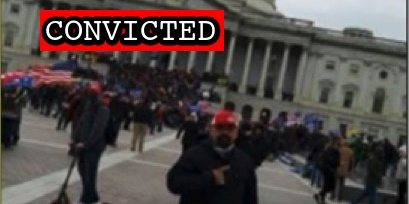
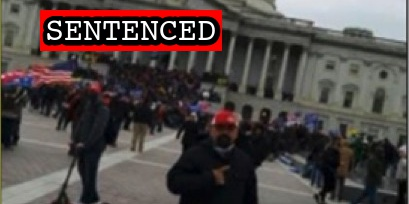
Missing sentences

Changed region(s): [[0.2347, 0.0588, 0.4401, 0.2353], [0.088, 0.0588, 0.2054, 0.2353], [0.5281, 0.0294, 0.5575, 0.2647]]

diff --git a/docs/_suspects/ryan-suleski.md b/docs/_suspects/ryan-suleski.md
@@ -4,13 +4,13 @@ lastName: Suleski
 hashtag: RyanSuleski
 aka:
 residence: Virginia
-status: Convicted
+status: Sentenced
 date: 2021-03-05
 charged: 2021-03-05
 indicted: 2021-05-26
 convicted: 2022-07-06
 acquitted:
-sentenced:
+sentenced: 2022-10-14
 dismissed:
 deceased:
 plea_hearing: 2022-07-06
@@ -40,16 +40,20 @@ caseName: USA v. SULESKI
 judge: Randolph D. Moss
 videos:
 charges:
-- code: 18 USC § 1752(a)(1)
-  title: Entering a restricted building or grounds
-  url: https://www.law.cornell.edu/uscode/text/18/1752
-  felony: false
-- code: 18 USC § 641
-  title: Theft of Government Property
-  url: https://www.law.cornell.edu/uscode/text/18/641
-  felony: false
+  - code: 18 USC § 1752(a)(1)
+    title: Entering a restricted building or grounds
+    url: https://www.law.cornell.edu/uscode/text/18/1752
+    felony: false
+  - code: 18 USC § 641
+    title: Theft of Government Property
+    url: https://www.law.cornell.edu/uscode/text/18/641
+    felony: false
 sentence:
+  - 60 days incarceration
+  - 60 hours community service
+  - $500 restitution
 ---
+
 - [News Report](https://twitter.com/ryanjreilly/status/1377307092478873601)
 - [Statement of Facts](https://www.justice.gov/usao-dc/case-multi-defendant/file/1393766/download)
 - [Complaint](https://extremism.gwu.edu/sites/g/files/zaxdzs2191/f/)

diff --git a/docs/_suspects/rafael-valadez.md b/docs/_suspects/rafael-valadez.md
@@ -4,13 +4,13 @@ lastName: Valadez
 hashtag:
 aka:
 residence: California
-status: Convicted
+status: Sentenced
 date: 2021-11-09
 charged: 2021-11-09
 indicted:
 convicted: 2022-07-01
 acquitted:
-sentenced:
+sentenced: 2022-10-14
 dismissed:
 deceased:
 plea_hearing: 2022-07-01
@@ -40,12 +40,15 @@ caseName: USA v. VALADEZ
 judge: James E. Boasberg
 videos:
 charges:
-- code: 40 USC § 5104(e)(2)(G)
-  title: Parading, demonstrating or picketing in a Capitol building
-  url: https://www.law.cornell.edu/uscode/text/40/5104
-  felony: false
+  - code: 40 USC § 5104(e)(2)(G)
+    title: Parading, demonstrating or picketing in a Capitol building
+    url: https://www.law.cornell.edu/uscode/text/40/5104
+    felony: false
 sentence:
+  - 30 days incarceration
+  - $500 restitution
 ---
+
 - [Complaint](https://www.justice.gov/usao-dc/case-multi-defendant/file/1458966/download)
 - [Information](https://www.justice.gov/usao-dc/case-multi-defendant/file/1458961/download)
 - [Statement of Facts](https://www.justice.gov/usao-dc/case-multi-defendant/file/1458971/download)
